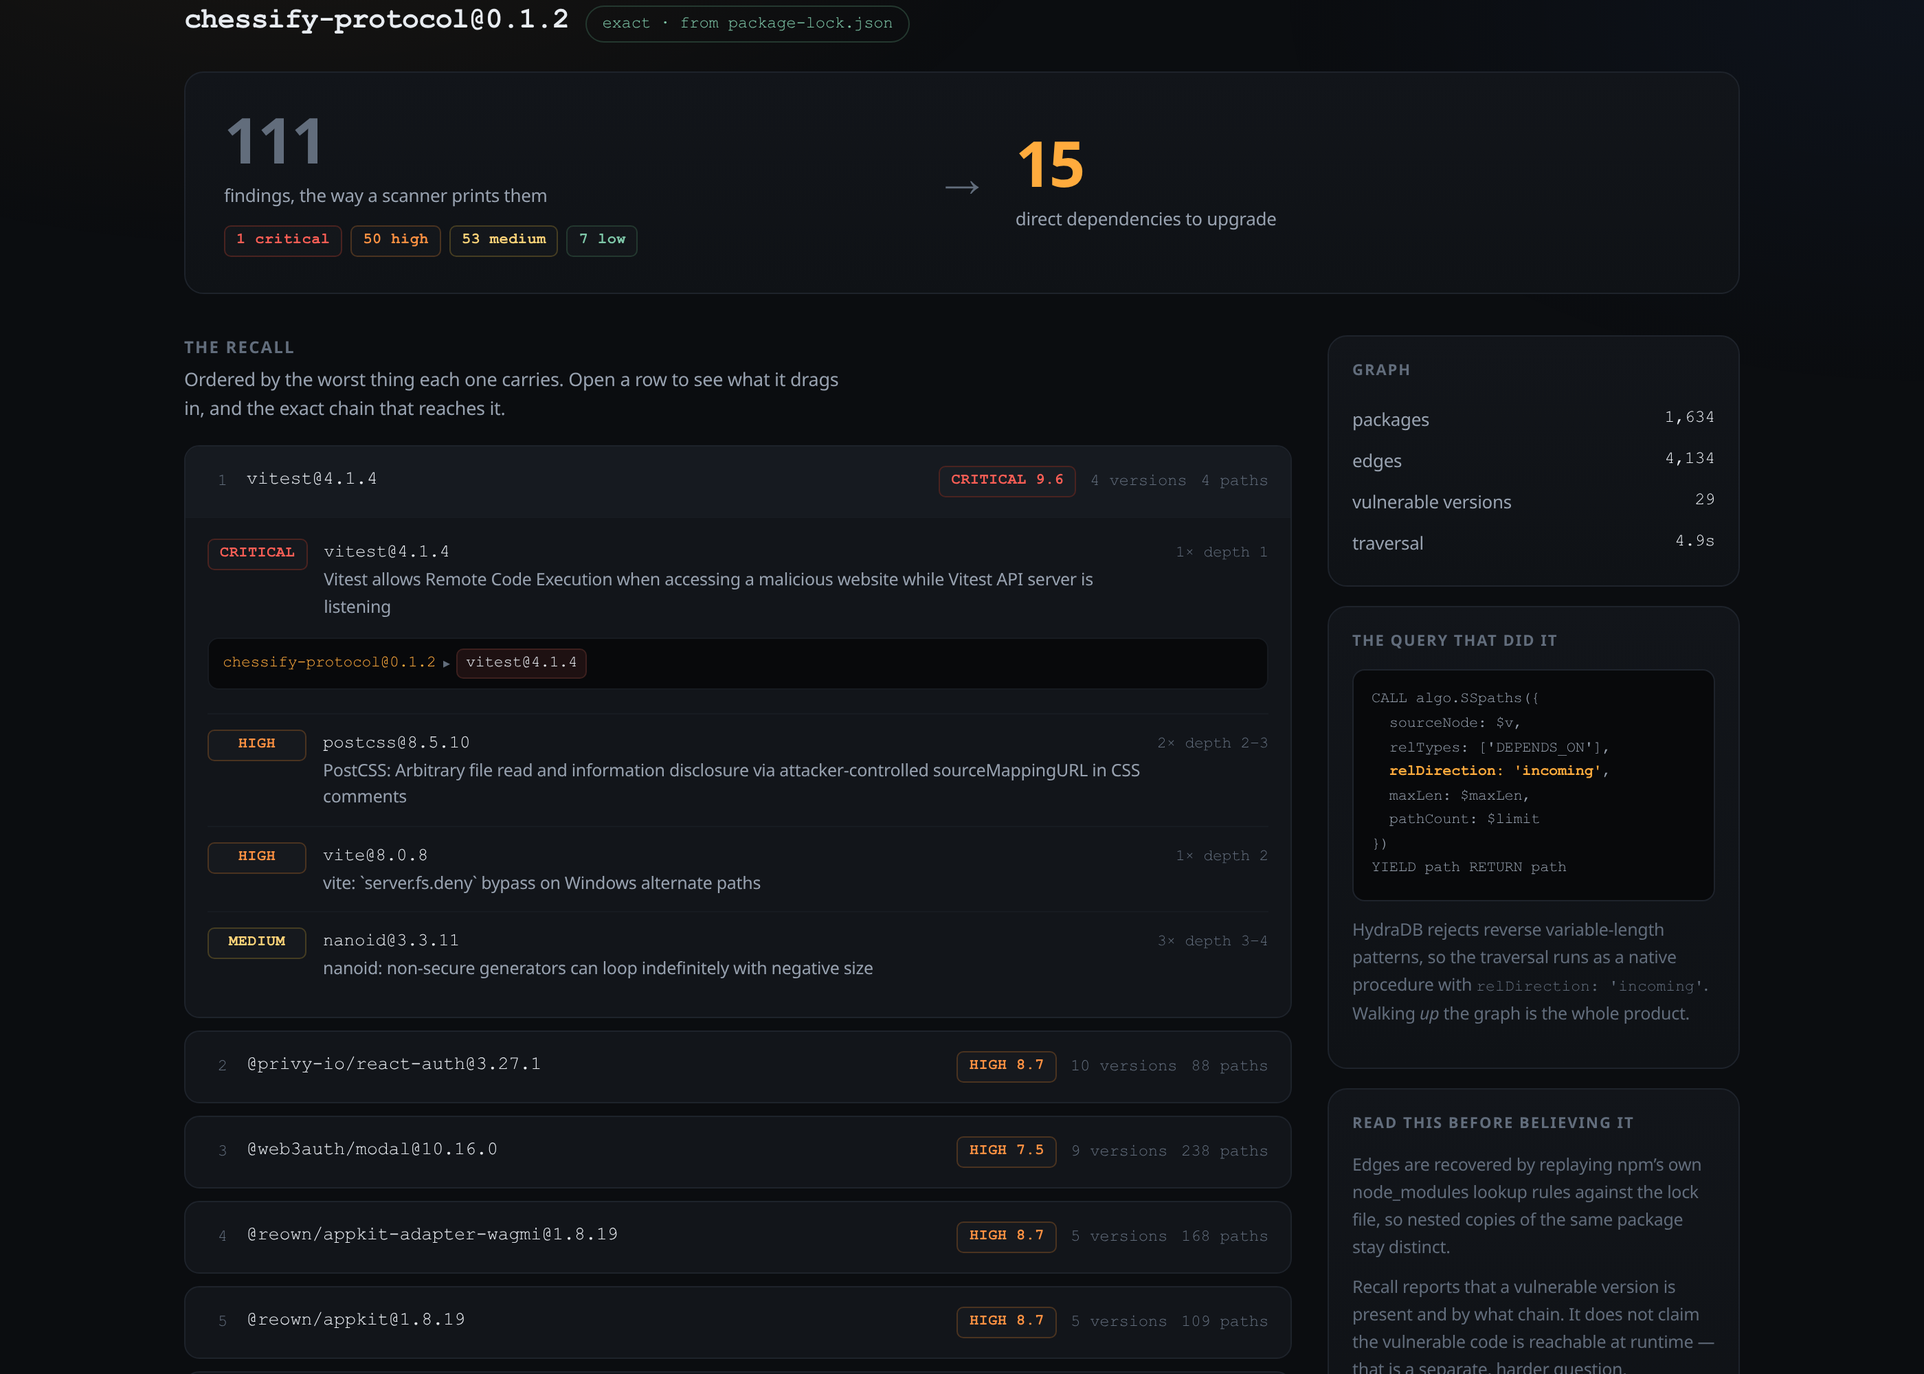
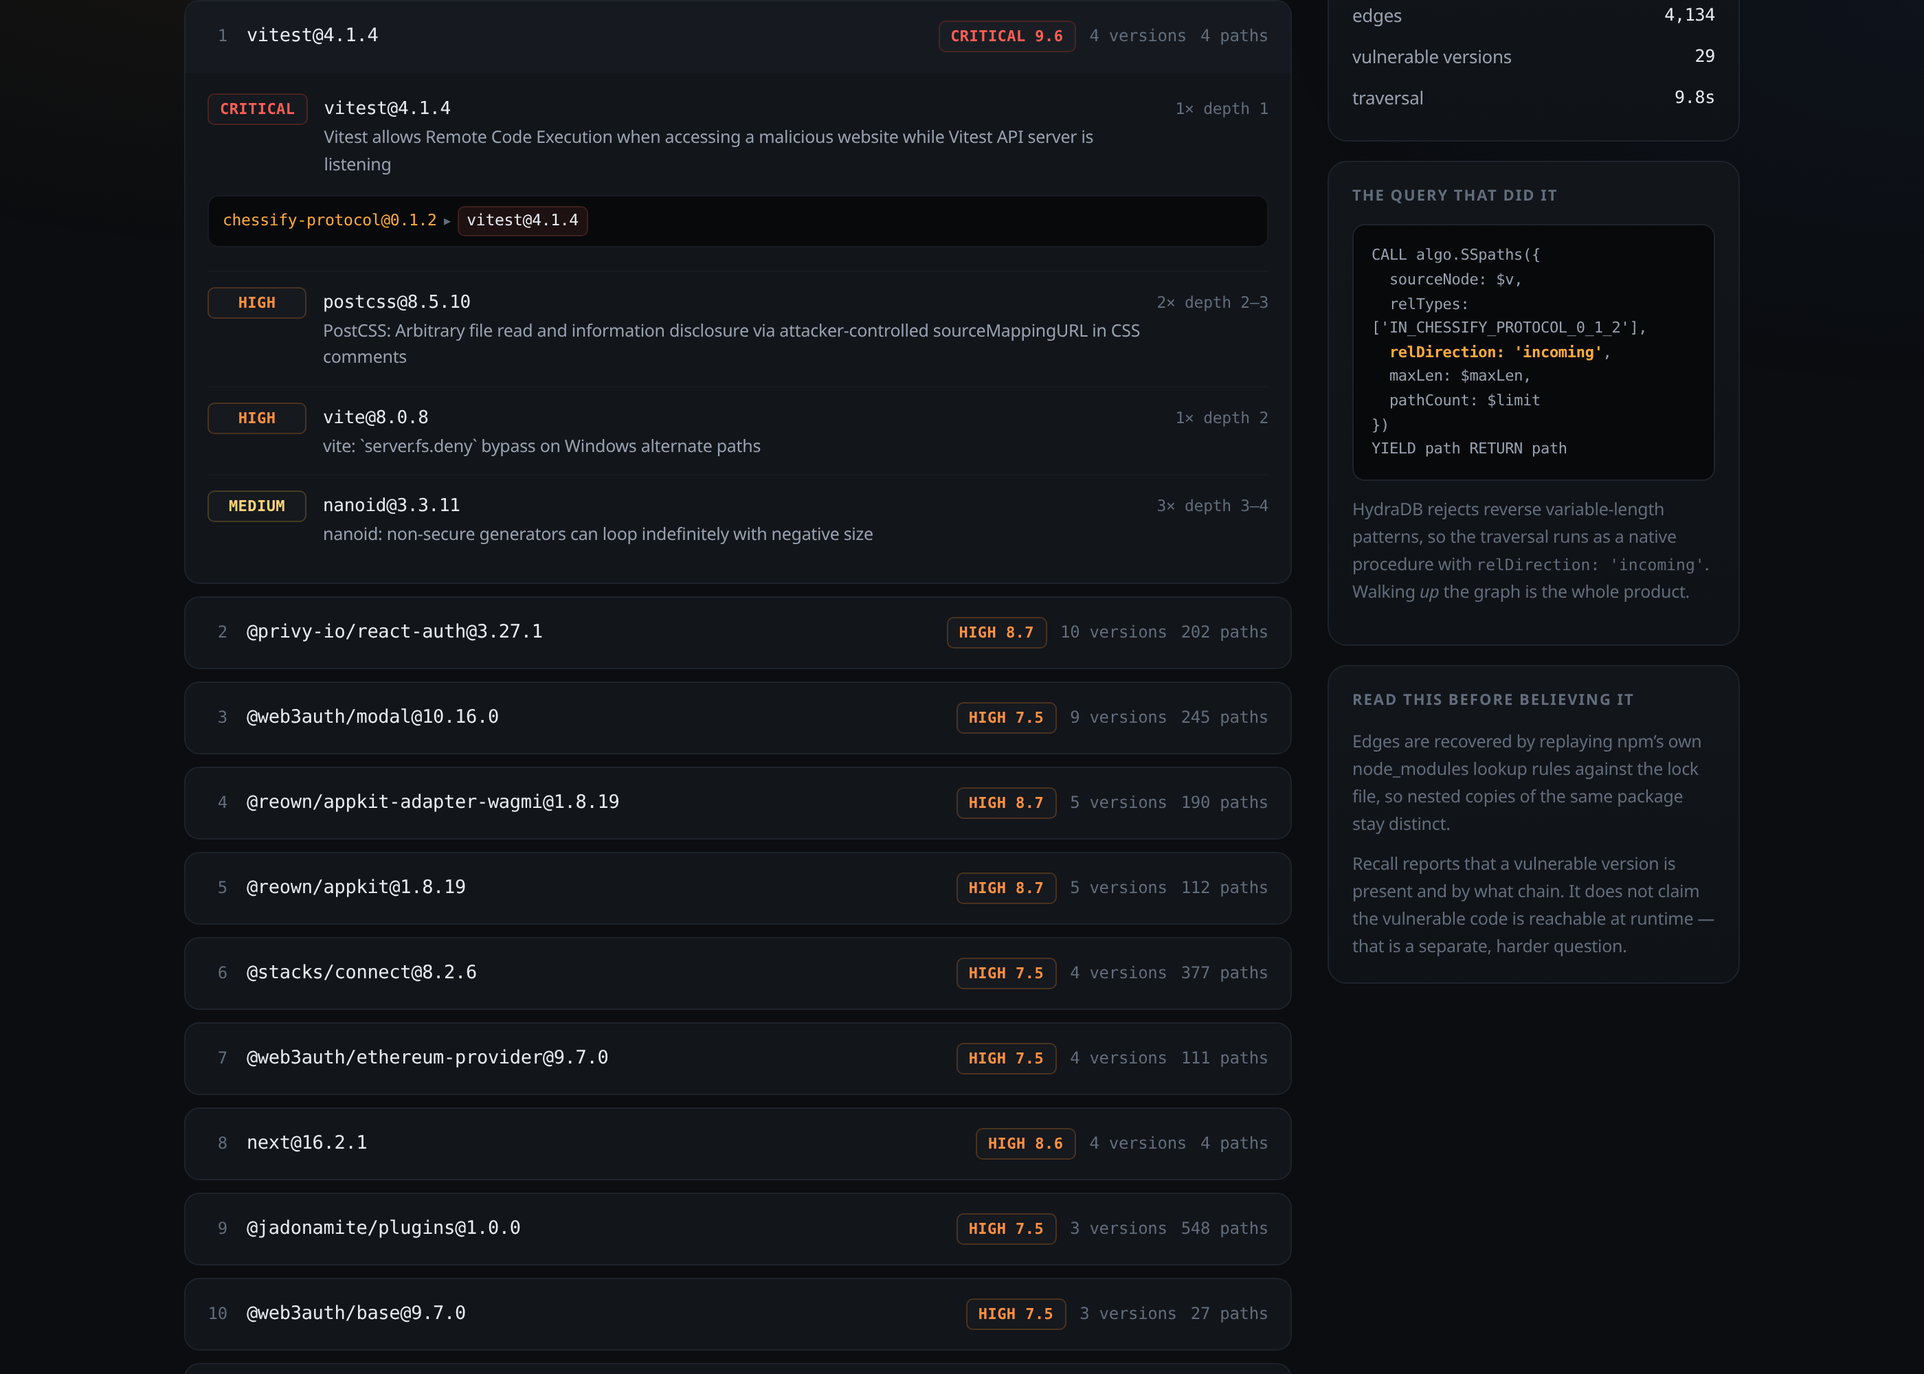
Scope each project's traversal to its own edges, and a clean empty state
algo.SSpaths caps returned paths with pathCount, and that cap applies across
everything in the store. With several projects loaded, one project's paths
crowded out another's, so a genuinely reachable vulnerability reported as
having no path from the root — a silent false negative, and the counts drifted
between identical runs. Each scanned project's edges are now also written under
a relationship type private to that project, which the report traverses.
Chessify is stable across runs and its unreachable count went from 3 to 0.

Relationship types cannot be Cypher parameters, so they are interpolated and
therefore whitelisted; six tests cover the sanitizer.

UI: a tree with nothing exposed now says so instead of rendering 0 over an
empty list, and narrow viewports stack the fix rows rather than crushing the
package name to one character per line.

diff --git a/public/index.html b/public/index.html
@@ -26,6 +26,7 @@
   }
 
   * { box-sizing: border-box; }
+  .hide { display: none !important; }
   html { -webkit-text-size-adjust: 100%; }
   body {
     margin: 0;
@@ -147,6 +148,17 @@
     .verdict .arrow { transform: rotate(90deg); }
   }
 
+  /* clean result — shown instead of the verdict band when nothing is exposed */
+  .clear { display: none; margin-top: 20px; padding: 24px 26px; gap: 18px; align-items: flex-start; }
+  .clear.on { display: flex; }
+  .clear-mark {
+    flex: none; width: 38px; height: 38px; border-radius: 50%;
+    display: grid; place-items: center; font-size: 19px;
+    color: var(--low); border: 1px solid #24382f; background: rgba(127,200,169,.07);
+  }
+  .clear h3 { margin: 4px 0 6px; font-size: 17px; font-weight: 600; letter-spacing: -0.02em; }
+  .clear p { margin: 0; color: var(--ink-dim); font-size: 13.5px; max-width: 62ch; }
+
   .pill {
     display: inline-flex; align-items: center; gap: 6px;
     font-family: var(--mono); font-size: 11px; font-weight: 600; letter-spacing: .02em;
@@ -160,6 +172,8 @@
   .sev-NONE, .sev-UNRATED { color: var(--unrated); border-color: var(--line); }
 
   .layout { display: grid; grid-template-columns: minmax(0,1fr) 300px; gap: 26px; margin-top: 30px; align-items: start; }
+  /* nothing found: drop the empty results column rather than leave a void beside it */
+  .layout.solo { grid-template-columns: minmax(0, 340px); justify-content: start; }
   @media (max-width: 940px) { .layout { grid-template-columns: minmax(0,1fr); } }
 
   h3.section {
@@ -195,6 +209,16 @@
   .vuln .sum { color: var(--ink-dim); font-size: 12.5px; }
   .vuln .cnt { font-family: var(--mono); font-size: 11.5px; color: var(--ink-faint); white-space: nowrap; }
   .vuln .chains { padding: 2px 0 12px; }
+
+  /* Narrow: the nowrap meta column would otherwise squeeze the package name down
+     to one broken character per line. Give each its own row instead. */
+  @media (max-width: 620px) {
+    .fix > summary { grid-template-columns: auto 1fr; row-gap: 9px; }
+    .fix .meta { grid-column: 1 / -1; flex-wrap: wrap; white-space: normal; }
+    .vuln > summary { grid-template-columns: auto 1fr; row-gap: 7px; }
+    .vuln .cnt { grid-column: 2; }
+    .chain { gap: 4px 6px; }
+  }
 
   /* dependency chains */
   .chain {
@@ -337,7 +361,7 @@
     <span class="provenance" id="mode"></span>
   </div>
 
-  <div class="panel verdict">
+  <div class="panel verdict" id="verdict">
     <div class="side before">
       <div class="n" id="n-findings">0</div>
       <div class="lbl">findings, the way a scanner prints them</div>
@@ -350,16 +374,28 @@
     </div>
   </div>
 
+  <div class="panel clear" id="clear">
+    <div class="clear-mark">✓</div>
+    <div>
+      <h3>Nothing to recall</h3>
+      <p>No version in this tree sits inside a known advisory window. <span id="clear-n"></span>
+         packages were checked against every advisory OSV holds for their names — this is a
+         clean result, not an empty one.</p>
+    </div>
+  </div>
+
   <div class="layout">
     <div>
-      <h3 class="section">The recall</h3>
-      <p class="section-note">
-        Ordered by the worst thing each one carries. Open a row to see what it drags in,
-        and the exact chain that reaches it.
-      </p>
+      <div id="fixes-head">
+        <h3 class="section">The recall</h3>
+        <p class="section-note">
+          Ordered by the worst thing each one carries. Open a row to see what it drags in,
+          and the exact chain that reaches it.
+        </p>
+      </div>
       <div id="fixes"></div>
 
-      <details class="wall">
+      <details class="wall" id="wall">
         <summary>Show the same data as a flat list — the wall this replaces</summary>
         <div class="flat" id="flat"></div>
       </details>
@@ -544,6 +580,15 @@ function render(r, elapsed) {
   const mode = $('mode');
   mode.textContent = r.mode === 'lockfile' ? 'exact · from package-lock.json' : 'approximate · resolved from package.json';
   mode.classList.toggle('exact', r.mode === 'lockfile');
+
+  // A clean tree is a real answer; showing "0 → 0" over an empty list reads as a bug.
+  const clean = r.findings === 0;
+  $('verdict').style.display = clean ? 'none' : '';
+  $('clear').classList.toggle('on', clean);
+  $('clear-n').textContent = r.packages.toLocaleString();
+  for (const id of ['fixes-head', 'wall']) $(id)?.classList.toggle('hide', clean);
+  document.querySelector('.layout').classList.toggle('solo', clean);
+  document.querySelector('.layout > div').classList.toggle('hide', clean);
 
   $('n-findings').textContent = r.findings.toLocaleString();
   $('n-fixes').textContent = r.fixes.length.toLocaleString();

diff --git a/src/project.js b/src/project.js
@@ -30,7 +30,7 @@ import { resolveProject } from './resolve.js';
 import { classify } from './windows.js';
 import { queryName, windowsOf, severityOf } from './advisory-history.js';
 import { rate } from './severity.js';
-import { Recall, TRAVERSAL_CYPHER } from './query.js';
+import { Recall, cypherFor, relTypeFor } from './query.js';
 
 const DATA = new URL('../data/', import.meta.url).pathname;
 const BOLT = process.env.HYDRA_BOLT ?? 'bolt://127.0.0.1:7687';
@@ -94,6 +94,7 @@ export async function backfillAdvisories(names, { concurrency = 4 } = {}) {
 
 /** Push a resolved project graph into HydraDB next to the seeded graph. */
 export async function upsert(graph) {
+  const relType = relTypeFor(graph.root);
   const map = JSON.parse(readFileSync(`${DATA}idmap.json`, 'utf8'));
   const windows = ndjson('advisory-windows.ndjson');
 
@@ -163,11 +164,17 @@ export async function upsert(graph) {
       .map((e) => ({ f: map.packages[e.from], t: map.packages[e.to] }))
       .filter((r) => r.f !== undefined && r.t !== undefined)
       .map((r) => ({ f: neo4j.int(r.f), t: neo4j.int(r.t), rid: neo4j.int(r.f * 100_000 + r.t) }));
-    await batched(depRows, `
-      UNWIND $rows AS row
-      MATCH (s:Package {id: row.f}), (t:Package {id: row.t})
-      MERGE (s)-[r:DEPENDS_ON {id: row.rid}]->(t)
-    `);
+
+    // Twice: once into the shared DEPENDS_ON graph the global queries use, and
+    // once under a type private to this project so its traversal cannot be
+    // crowded out of `pathCount` by an unrelated project in the same store.
+    for (const type of ['DEPENDS_ON', relType]) {
+      await batched(depRows, `
+        UNWIND $rows AS row
+        MATCH (s:Package {id: row.f}), (t:Package {id: row.t})
+        MERGE (s)-[r:${type} {id: row.rid}]->(t)
+      `);
+    }
 
     await batched(advEdges, `
       UNWIND $rows AS row
@@ -180,7 +187,7 @@ export async function upsert(graph) {
   }
 
   writeFileSync(`${DATA}idmap.json`, JSON.stringify(map));
-  return { newPackages: newNodes.length, edges: graph.edges.length, exposed };
+  return { newPackages: newNodes.length, edges: graph.edges.length, exposed, relType };
 }
 
 // ------------------------------------------------------------------ report
@@ -193,7 +200,8 @@ export async function upsert(graph) {
  * chain is a direct dependency — the only thing the developer can actually
  * change. Grouping findings by that hop is what turns the wall into a list.
  */
-export async function report(graph, exposed, { maxLen = 10, limit = 2000, keepPaths = 40 } = {}) {
+export async function report(graph, exposed, { maxLen = 12, limit = 5000, keepPaths = 40, relType } = {}) {
+  const type = relType ?? relTypeFor(graph.root);
   const r = new Recall();
   const byDirect = new Map();
   const unreachable = [];
@@ -216,7 +224,7 @@ export async function report(graph, exposed, { maxLen = 10, limit = 2000, keepPa
 
       let paths;
       try {
-        paths = await r.recall(v.key, { maxLen, limit });
+        paths = await r.recall(v.key, { maxLen, limit, relType: type });
       } catch (err) {
         unreachable.push({ ...v, reason: err.message });
         continue;
@@ -286,7 +294,7 @@ export async function report(graph, exposed, { maxLen = 10, limit = 2000, keepPa
     fixes,
     details: details.sort((a, b) => b.worst.rank - a.worst.rank || b.pathCount - a.pathCount),
     unreachable,
-    query: TRAVERSAL_CYPHER,
+    query: cypherFor(type),
     warnings: graph.warnings ?? [],
   };
 }
@@ -310,14 +318,20 @@ if (import.meta.url === `file://${process.argv[1]}`) {
   }
 
   await backfillAdvisories(graph.nodes.map((n) => n.name));
-  const { exposed, newPackages } = await upsert(graph);
+  const { exposed, newPackages, relType } = await upsert(graph);
   if (!asJson) console.log(`  ${newPackages} packages new to the graph · ${exposed.length} advisory hits\n`);
 
-  const out = await report(graph, exposed);
+  const out = await report(graph, exposed, { relType });
 
   if (asJson) {
     console.log(JSON.stringify(out, null, 2));
   } else {
+    if (!out.findings) {
+      console.log(`Nothing to recall. No version in this tree sits inside a known advisory window.`);
+      console.log(`  ${out.packages} packages checked against every advisory OSV has for their names.`);
+      process.exit(0);
+    }
+
     const sev = Object.entries(out.severities).filter(([, n]) => n > 0)
       .map(([k, n]) => `${n} ${k.toLowerCase()}`).join(' · ');
     console.log(`${out.findings} findings across ${out.exposedVersions} vulnerable versions`);

diff --git a/src/query.js b/src/query.js
@@ -27,15 +27,41 @@ const TOKEN = process.env.HYDRA_TOKEN ?? 'local-development-token-32-bytes';
 /**
  * The traversal, verbatim. Exported so the UI can show the query that produced
  * what is on screen rather than a prettified retelling of it.
+ *
+ * The relationship type is interpolated rather than parameterised because a
+ * Cypher relationship type cannot be a parameter. Callers pass a type this
+ * module generated (see `relTypeFor`), and it is sanitized here regardless.
  */
-export const TRAVERSAL_CYPHER = `CALL algo.SSpaths({
+export const cypherFor = (relType = 'DEPENDS_ON') => `CALL algo.SSpaths({
   sourceNode: $v,
-  relTypes: ['DEPENDS_ON'],
+  relTypes: ['${safeRelType(relType)}'],
   relDirection: 'incoming',
   maxLen: $maxLen,
   pathCount: $limit
 })
 YIELD path RETURN path`;
+
+export const TRAVERSAL_CYPHER = cypherFor();
+
+/** Relationship types are interpolated into Cypher, so they are whitelisted. */
+export function safeRelType(t) {
+  const s = String(t).replace(/[^A-Za-z0-9_]/g, '_');
+  if (!/^[A-Za-z_][A-Za-z0-9_]*$/.test(s)) throw new Error(`unusable relationship type: ${t}`);
+  return s;
+}
+
+/**
+ * A relationship type private to one project.
+ *
+ * `pathCount` caps how many paths the procedure returns, and that cap applies
+ * across everything in the store — so with several projects loaded, another
+ * project's paths can crowd out the ones from this root and a genuinely
+ * reachable vulnerability reads as unreachable. A project's resolved tree is
+ * self-contained, so scoping the traversal to its own edges makes the answer
+ * exact and independent of whatever else has been scanned.
+ */
+export const relTypeFor = (rootKey) =>
+  safeRelType('IN_' + String(rootKey).toUpperCase()).slice(0, 120);
 
 export class Recall {
   constructor() {
@@ -68,8 +94,8 @@ export class Recall {
    * package and return the actual chains that reach it.
    * @returns {Promise<{path: string[], depth: number}[]>}
    */
-  async recall(key, { maxLen = 6, limit = 500 } = {}) {
-    const r = await this.session.run(TRAVERSAL_CYPHER, {
+  async recall(key, { maxLen = 6, limit = 500, relType = 'DEPENDS_ON' } = {}) {
+    const r = await this.session.run(cypherFor(relType), {
       v: this.id(key), maxLen: neo4j.int(maxLen), limit: neo4j.int(limit),
     });
 

diff --git a/test/reltype.test.js b/test/reltype.test.js
@@ -1,0 +1,59 @@
+/**
+ * Relationship-type tests.
+ *
+ * A Cypher relationship type cannot be a parameter, so it is interpolated into
+ * the query string. That makes the sanitizer the only thing standing between a
+ * package name from a stranger's lock file and the query text, which is worth
+ * a few tests of its own.
+ */
+
+'use strict';
+
+import { test } from 'node:test';
+import assert from 'node:assert/strict';
+
+import { safeRelType, relTypeFor, cypherFor } from '../src/query.js';
+
+test('a normal project root becomes a usable type', () => {
+  assert.equal(relTypeFor('my-app@1.0.0'), 'IN_MY_APP_1_0_0');
+  assert.equal(relTypeFor('@scope/pkg@2.3.4'), 'IN__SCOPE_PKG_2_3_4');
+});
+
+test('quotes, braces and newlines cannot escape the query', () => {
+  for (const evil of [
+    "x'}) YIELD path RETURN path //",
+    'a"b',
+    'a\nMATCH (n) DETACH DELETE n',
+    'a`b',
+    'a) MERGE (x',
+  ]) {
+    const t = relTypeFor(evil);
+    assert.match(t, /^[A-Za-z_][A-Za-z0-9_]*$/, `unsafe type produced: ${t}`);
+    const q = cypherFor(t);
+    assert.equal(q.includes("'" + t + "'"), true);
+    // Four single quotes total, and no more: the pair around the type and the
+    // pair around 'incoming'. Anything else means a quote survived the scrub.
+    assert.equal((q.match(/'/g) ?? []).length, 4);
+    assert.equal(q.split('\n').length, 8);
+  }
+});
+
+test('the default traversal type is unchanged', () => {
+  assert.match(cypherFor(), /relTypes: \['DEPENDS_ON'\]/);
+  assert.match(cypherFor(), /relDirection: 'incoming'/);
+});
+
+test('a type that sanitizes to nothing usable is rejected, not silently emptied', () => {
+  assert.throws(() => safeRelType(''), /unusable relationship type/);
+});
+
+test('a leading digit is not a valid type start', () => {
+  // relTypeFor prefixes IN_, so this can only arise from a direct call.
+  assert.throws(() => safeRelType('9lives'), /unusable relationship type/);
+});
+
+test('types stay short enough for the server to accept', () => {
+  const t = relTypeFor('x'.repeat(500) + '@1.0.0');
+  assert.ok(t.length <= 120, `type too long: ${t.length}`);
+  assert.match(t, /^[A-Za-z_][A-Za-z0-9_]*$/);
+});

diff --git a/src/server.js b/src/server.js
@@ -76,11 +76,11 @@ async function scan(req, res) {
     send({ stage: 'advisories-done', ...adv });
 
     send({ stage: 'load', message: 'loading the tree into HydraDB' });
-    const { exposed, newPackages } = await upsert(graph);
+    const { exposed, newPackages, relType } = await upsert(graph);
     send({ stage: 'loaded', newPackages, hits: exposed.length });
 
     send({ stage: 'recall', message: 'traversing DEPENDS_ON backwards from each vulnerable version' });
-    const out = await report(graph, exposed);
+    const out = await report(graph, exposed, { relType });
     send({ stage: 'done', report: out });
   } catch (e) {
     send({ stage: 'error', message: e.message ?? String(e) });

diff --git a/README.md b/README.md
@@ -18,15 +18,16 @@ my-app@0.1.2  ·  exact (package-lock.json)
 15 direct dependencies to upgrade:
 
   CRITICAL 9.6    4 vulnerable versions ·    4 paths · vitest@4.1.4
-  HIGH 8.7       10 vulnerable versions ·   88 paths · @privy-io/react-auth@3.27.1
-  HIGH 7.5        9 vulnerable versions ·  238 paths · @web3auth/modal@10.16.0
+  HIGH 8.7       10 vulnerable versions ·  202 paths · @privy-io/react-auth@3.27.1
+  HIGH 7.5        9 vulnerable versions ·  245 paths · @web3auth/modal@10.16.0
+  HIGH 8.7        5 vulnerable versions ·  190 paths · @reown/appkit-adapter-wagmi@1.8.19
   …
 
 worst chains:
-  [6] my-app@0.1.2 → @privy-io/react-auth@3.27.1 → x402@0.7.3 → @solana/kit@5.5.1
-      → @solana/rpc-subscriptions@5.5.1 → @solana/rpc-subscriptions-channel-websocket@5.5.1
-      → ws@8.20.0
-      HIGH  GHSA-58qx-3vcg-4xpx  ws: Uninitialized memory disclosure
+  [1] my-app@0.1.2 → vitest@4.1.4
+      CRITICAL  GHSA-9crc-q9x8-hgqq  Vitest allows Remote Code Execution …
+  [2] my-app@0.1.2 → viem@2.48.11 → ws@8.18.3
+      HIGH  GHSA-96hv-2xvq-fx4p  ws: Memory exhaustion DoS from tiny fragments …
 ```
 
 **111 findings became 15 upgrades.** Not by filtering anything out — every finding is still there. By asking the question a scanner cannot ask: *by what path does this reach me?* Every path enters through exactly one direct dependency, and that is the only thing you can actually change.
@@ -118,7 +119,7 @@ windows in `data/` — so there is no waiting on a crawl to see this work.
 
 ```bash
 npm install
-npm test                            # 31 tests, no network, no database
+npm test                            # 37 tests, no network, no database
 
 npm run load                        # load the committed graph into HydraDB (~2s)
 npm run recall ~/code/my-app        # the recall, on a real project
@@ -166,6 +167,7 @@ HydraDB speaks a deliberately narrow OpenCypher subset. What the loader and quer
 - `SET` values must read from the row map — a literal in an `UNWIND` write is rejected
 - no `IN`, `CONTAINS`, `IS NULL`, or `RETURN *`
 - reverse variable-length patterns are unsupported, so the reverse traversal runs as the native `algo.SSpaths` procedure with `relDirection: 'incoming'` — that one parameter *is* the recall
+- `algo.SSpaths`'s `pathCount` caps returned paths across the whole store, so each scanned project's edges are also written under a relationship type private to that project. Without it, one project's paths can crowd out another's and a genuinely reachable vulnerability reads as unreachable — which is exactly the silent false negative this tool exists to avoid.
 
 ## What this does not claim
 
